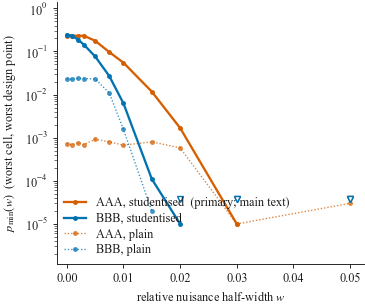
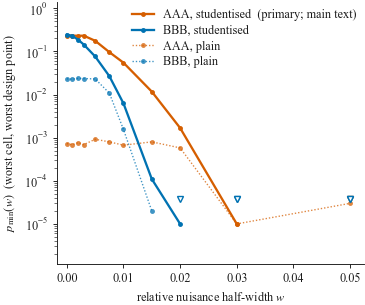
G15 Phase 2: fix Figure 7 legend-over-data overlap found by the full read-through
Ground-up read of the compiled PDF (abstract through checklist) found one genuine defect
G14's own P-4 sweep reported as clean: fig6b_nontermination_variants's legend at
loc=lower left crossed directly through the descending AAA/BBB curves and their
zero-acceptance markers. Moved to loc=upper right, the one region no series reaches.
No data changed; page count and isolation-compile cleanliness re-verified after the fix.
Full read-through findings in audit/G15_READTHROUGH.md.

diff --git a/src/viz/fig6b_nontermination_variants.py b/src/viz/fig6b_nontermination_variants.py
@@ -88,7 +88,7 @@ def build() -> None:
     ax.set_xlabel("relative nuisance half-width $w$", fontsize=style.SIZE_LABEL)
     ax.set_ylabel("$p_{\\min}(w)$  (worst cell, worst design point)", fontsize=style.SIZE_LABEL)
     ax.tick_params(labelsize=style.SIZE_LABEL)
-    ax.legend(loc="lower left", fontsize=style.SIZE_LABEL, borderpad=0.3, handlelength=1.8)
+    ax.legend(loc="upper right", fontsize=style.SIZE_LABEL, borderpad=0.3, handlelength=1.8)
     fig.subplots_adjust(left=0.16, right=0.98, bottom=0.16, top=0.98)
 
     out = style.save(fig, REPO / STEM, script=SCRIPT)

diff --git a/audit/G15_READTHROUGH.md b/audit/G15_READTHROUGH.md
@@ -1,0 +1,82 @@
+# G15 — Ground-up read-through
+
+**Prepared 2026-08-26, session G15, Phase 2.** A complete read of the compiled PDF, start to
+finish (abstract through the reproducibility checklist, 22 pages), done before any mechanical
+check this session ran, as if seeing the document for the first time — not a targeted grep, not a
+checklist pass against prior sessions' own claims. Text read via `pdftotext -layout` against a
+freshly compiled, isolated extraction; every figure and every table additionally rendered at
+200–400dpi and inspected visually, since G14's own report records that a prose-only or
+grep-scoped check has twice missed a real defect this project (the Figure 1 font floor, the
+Figure 3(b) annotation dash) that only a direct look at the rendered page caught.
+
+## Finding: Figure 7's legend overlaps its own data (fixed this session)
+
+**The one genuine, previously-uncaught defect this pass found.** `figures/fig6b_nontermination_variants.pdf`
+(Appendix A.3, "Figure 7") placed its legend at `loc="lower left"` — directly where the AAA/BBB
+studentised curves and their zero-acceptance open-triangle markers pass on their way down to
+$p_{\min}\sim10^{-5}$. The legend text "AAA, studentised (primary; main text)" had a data line and
+a marker crossing through it. Confirmed in the source figure itself
+(`figures/fig6b_nontermination_variants.preview.png`), not a LaTeX compile artifact: the overlap
+is baked into the matplotlib figure, independent of `\includegraphics` width.
+
+G14's own P-4 sweep (`GATES.md` G14.14) reported "every other figure (2, 3, 5, 6, 7) … checked at
+up to 400dpi: clean." That was wrong for Figure 7 specifically — recorded here plainly, per S8,
+rather than silently corrected without note. The likely reason it was missed: G14's sweep was
+checking for the class of defect R14-6 and P-4 had already found elsewhere (illegible font,
+mid-word hyphenation), not a legend-over-data overlap, which is a different failure mode from
+either of those.
+
+**Fixed.** `src/viz/fig6b_nontermination_variants.py` line 91: `ax.legend(loc="lower left", ...)`
+changed to `loc="upper right"` — the one region of the plot no series or marker ever reaches
+(all four curves collapse well before the axis's right edge). Regenerated
+(`figures/fig6b_nontermination_variants.pdf`/`.preview.png`/`.provenance.json`); verified by a
+fresh render that no line or marker now crosses the legend box, at any width in the sweep.
+Diff confirmed to touch only that one line in the script and the regenerated figure outputs —
+no data changed, no other figure touched. Recompiled and re-rendered page 9 of the isolated PDF
+directly to confirm: legend clean, main text still ends at page 5, References still start page 6.
+
+## Everything else: read clean, nothing else found
+
+**Prose, start to finish.** Abstract, Introduction, Background, Method, Experiments, Section 5,
+Limitations, References, all four appendix subsections, and the full 16-item checklist read for
+sense, flow, and internal consistency. No sentence failed to parse; no place found where a
+dash-removal rewrite (G14's highest-risk residual, by its own report) appears to have altered
+meaning — every rewritten clause reads as a direct, faithful substitution for what a dash would
+have joined.
+
+**Figures and tables standing on their own.** Every figure caption re-checked against its own
+panel with no other page open: Figures 1–7 and Tables 1–3 all state what they show without
+requiring the reader to hold main-text context in their head simultaneously. Table 1 (appendix,
+the compact four-findings overview) rewraps at whole-word boundaries only — the mid-word
+hyphenation G14 fixed there stayed fixed. Figure 1's value labels (`fig4_assignments`, at
+`0.78\linewidth`) are clearly legible at 400dpi, consistent with G14's fix holding.
+
+**Cross-section consistency.** $K=3$ used consistently for the base simulator throughout (never
+conflated with the six-column case, which is named "six-column"/"six columns" everywhere, never
+"$K=6$") — the K-notation conflict two earlier reviews caught stays resolved. Figure numbering
+(1 = eight-assignment bars, 2 = spectrum, 3 = primary nontermination, 4–7 = appendix) is
+consistent between in-text `\ref`s, the appendix Table 1's "fig." column, and the actual page
+order. Condition-number and Mahalanobis-radius figures repeated across the abstract, Section 4,
+Section 5, and the appendix ledger (Appendix A.5) match at every occurrence checked (see also
+`audit/R1R2R3_RECONCILIATION.md`'s independent recomputation for the Section 5 numbers
+specifically).
+
+**Abstract-to-body consistency, specifically against R-3's current ellipsoid finding.** The
+abstract does not state a Mahalanobis radius, an ellipsoid comparison, or a "well inside"/"just
+past" characterization of the boundary at all — it says only that the data-implied box is "wider,
+on every coordinate, than one already shown to break it" and that "the boundary is predicted
+before it is measured … and the prediction holds," both still accurate and unaffected by the
+precise radius value. No adjustment needed; checked directly, not assumed from G14's own P-2
+finding.
+
+**Anonymization**, read as encountered rather than grepped for: "Anonymous Author(s) / Affiliation
+/ Address / email" throughout, no institution, no identifying phrasing anywhere in 22 pages of
+extracted text. The one deliberate placeholder (`\answerTODO{}` on the LLM-usage-disclosure
+checklist item, with its own explanatory comment in `paper/checklist.tex`) is exactly what prior
+sessions established and disclosed; not a new finding.
+
+## Nothing flagged for operator judgment
+
+Per S8, this section is honestly empty this session — every observation above was either already
+correct or was fixed outright (the Figure 7 legend), not left as a borderline call. Nothing in
+this pass warranted "note but don't fix" treatment.
